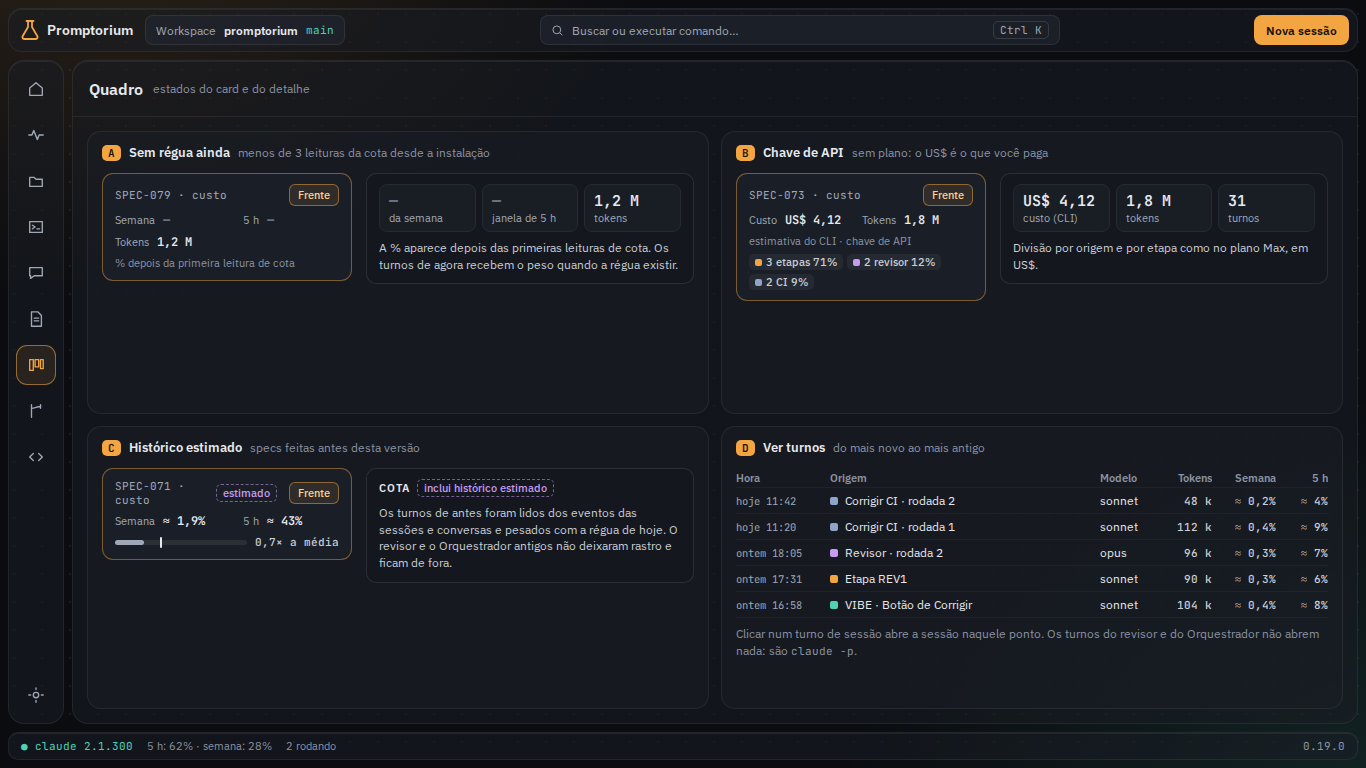
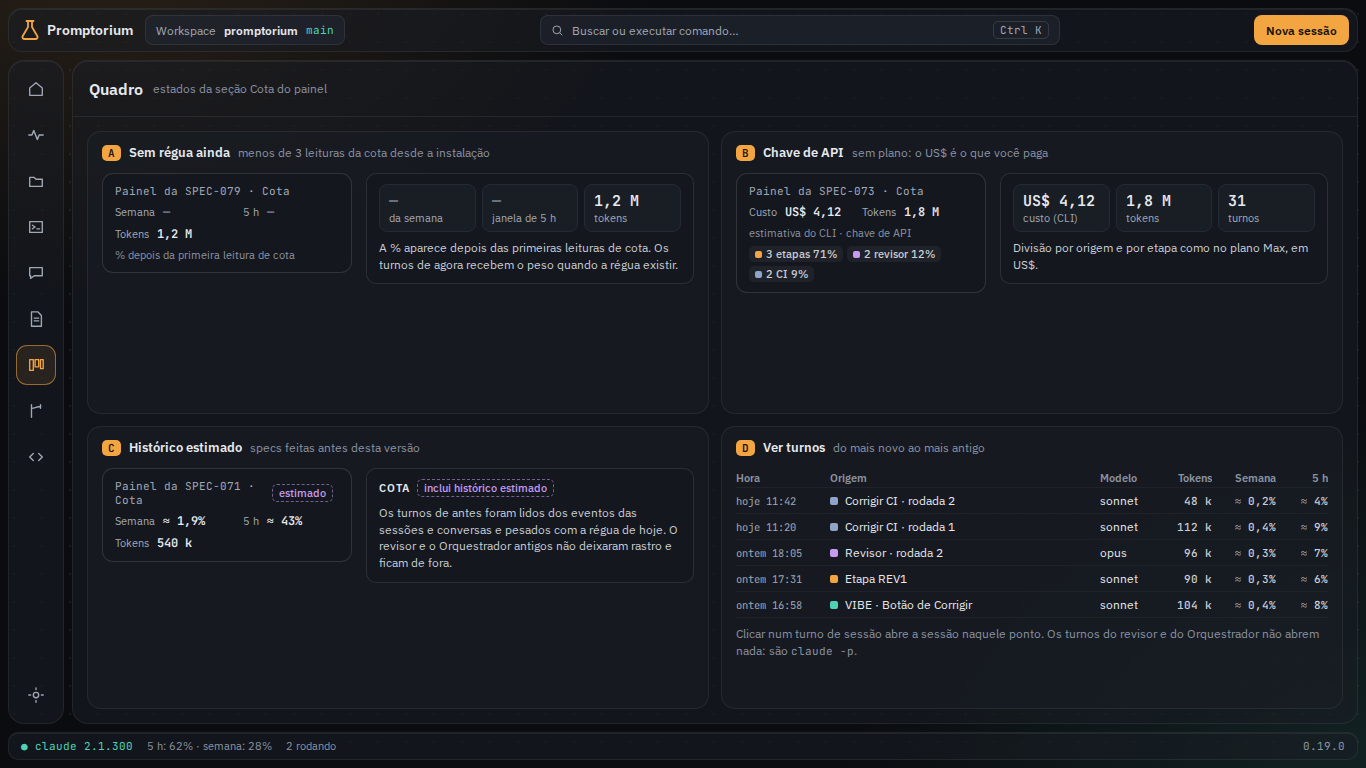
docs(spec-081): custo só no painel da spec; o card não muda

diff --git a/docs/specs/SPEC-081-custo-por-spec.md b/docs/specs/SPEC-081-custo-por-spec.md
@@ -17,14 +17,14 @@ E o número que existe está na unidade errada. O usuário está no plano Max: n
 Esta spec:
 - passa a **registrar o consumo de cada turno** de tudo o que trabalha numa spec (etapas, revisor automático, Corrigir CI, VIBE, refinamento, classificador e decisões do Orquestrador), com a spec e a origem;
 - converte o consumo em **peso na janela de 5 h e na semana**, em % e em tokens, a partir das leituras de cota que o app já recebe (`rate_limit_event` e `/usage`), como a Atividades (SPEC-076 R7) faz com as sessões vivas;
-- mostra o custo **no verso do card do Quadro** (a pessoa vira o card para ver; a frente continua como hoje) e **no detalhe da spec**, com a divisão por origem e por etapa;
+- mostra o custo **no painel da spec**, que abre com o clique que já existe no card do Quadro, com a divisão por origem e por etapa. O card não muda;
 - cria um **ranking das specs que mais custaram**, em Projeto → Métricas.
 
 Mockup: [canvas do Claude Design](https://claude.ai/artifact/8jY976rNGUu6w2TNxAoGTr). Capturas em `docs/mockups/spec-081/`:
 
 | Captura | O que mostra | Requisitos |
 |---|---|---|
-| `1-quadro.png` | O Quadro com dois cards virados (o verso com o custo, um deles rodando), o botão de virar no hover e a virada quadro a quadro | R6–R6c, R7, R14 |
+| `1-quadro.png` | O Quadro com o card como é hoje e, ao clicar numa spec rodando, o painel com a seção Cota e o peso de agora | R6, R7, R8 |
 | `2-detalhe.png` | O painel da spec com a seção Cota: totais, divisão por origem, por etapa e a lista de turnos | R8, R9 |
 | `3-ranking.png` | Projeto → Métricas com "Specs que mais custaram", o período e a troca de unidade | R10, R11 |
 | `4-estados.png` | Sem leitura de cota ainda, chave de API (US$), histórico estimado e a lista de turnos | R3, R5, R8, R12 |
@@ -44,22 +44,15 @@ Mockup: [canvas do Claude Design](https://claude.ai/artifact/8jY976rNGUu6w2TNxAo
   - **Verificação**: a verificação da spec (`spec_verifier.dart`) e as respostas às perguntas (`spec_answers.dart`);
   - **Outros**: o que roda numa spec e não está acima (protótipo de telas, `spec_design.dart`).
 
-  Turnos sem spec (Prompt livre, sessões soltas, Projeto, mini planejamento da Nova spec) também são gravados, com spec nula, para a soma do workspace e para a régua do R3, mas não aparecem no verso do card nem no ranking.
+  Turnos sem spec (Prompt livre, sessões soltas, Projeto, mini planejamento da Nova spec) também são gravados, com spec nula, para a soma do workspace e para a régua do R3, mas não aparecem no painel da spec nem no ranking.
 - R3 · **A régua: quanto da cota vale um turno.** A cota do plano é medida pelo custo das chamadas, não pela contagem de tokens, então o custo estimado do CLI serve de peso e nunca aparece como preço. O app aprende quanto cada janela sobe por unidade de custo: a cada leitura nova da cota (`rate_limit_event` ou `/usage`) na mesma janela (mesmo `resetsAt`), ele divide a subida do uso pela soma do custo dos turnos gravados entre as duas leituras. A régua de cada janela é a **mediana das últimas 20 divisões** válidas (subida > 0 e custo > 0), guardada em `app_settings` (`quota.ruler.five_hour`, `quota.ruler.seven_day`). A mediana tira do cálculo os intervalos em que a pessoa usou o Claude fora do app (o terminal, o claude.ai), que sobem a cota sem turno gravado. Sem régua ainda (menos de 3 divisões), o app mostra só os tokens e "% depois da primeira leitura de cota".
 - R4 · **O peso fica no lançamento.** Ao gravar, o lançamento recebe o peso na janela de 5 h e na semana pela régua do momento (`custo × régua`), e esse número não muda depois, mesmo que a régua mude. Um lançamento gravado sem régua recebe o peso quando a primeira régua existir.
 - R5 · **O histórico de antes.** As sessões e conversas gravadas antes desta spec têm só o total (`costUsd`, `tokensIn`, `tokensOut`). Na primeira abertura depois da migração, o app lê os eventos `result` de `session_events` e `conversation_events` e cria os lançamentos com a hora de cada turno, em segundo plano e uma vez só. Os `claude -p` antigos (revisor, Orquestrador) não deixaram rastro e ficam de fora. Esses lançamentos vêm marcados como **estimados** (régua de hoje, não a do dia) e o detalhe diz "inclui histórico estimado".
 
 ### Onde aparece
 
-- R6 · **O custo fica no verso do card.** A frente do card do Quadro continua como é hoje, sem nenhum número de custo: o "US$ 4,12" que a frente mostra hoje sai dela e vai para o verso. Para ver o custo, a pessoa **vira o card**:
-  - **o gatilho** é um botão com o ícone de **medidor de cota** (um mostrador com ponteiro, como o `Icons.speed` do Material) no canto inferior direito da frente, que aparece com o mouse sobre o card ou com o foco dentro dele, com a dica "Ver o custo · V"; com o foco no card, a tecla **V** também vira. O botão usa `AppPressable.claim`, como os selos do card (gate, CI, issue), para o toque nele não virar clique no card nem começar um arrasto (P2);
-  - **a animação** é um giro 3D no eixo vertical (`Transform` com perspectiva, `rotateY` de 0 a 180°), de 360 ms com a curva do app; na metade do giro a frente dá lugar ao verso. No verso, o botão "Frente" (no mesmo canto, com texto), V ou Esc voltam à frente pelo mesmo giro;
-  - **a altura:** o card virado tem a altura do maior dos dois lados; se o verso precisa de mais, o card cresce junto com o giro e volta à altura da frente ao desvirar;
-  - **um por vez:** virar outro card desvira o anterior; arrastar um card virado desvira ele antes; trocar de workspace ou de tela desvira todos. O estado não é salvo (P9).
-- R6a · **O verso.** Mostra, de cima para baixo: "SPEC-073 · custo" e o botão "Frente"; **Semana** "≈ 6,2%" e **Janela de 5 h** "≈ 1,4 jan."; **Tokens** "1,8 M" e "+ 41 M do cache"; **as sessões somadas por tipo**, em etiquetas com a cor da origem, a quantidade e a parte de cada uma ("3 etapas 71%", "2 revisor 12%", "2 CI 9%", "1 VIBE 6%", "1 refino 2%"); e **a comparação com a média**: uma barra com o peso da spec e um traço na média, "2,1× a média" e, quando cabe, "média das specs feitas em 30 dias: ≈ 2,9% sem." (P8). Com menos de 3 specs na média, a linha diz "sem média ainda". Acima de 1,5× a média, a barra e o número ficam em âmbar. Clicar no verso (fora do botão) abre o detalhe da spec (R8), como o clique na frente. Uma spec sem consumo mostra no verso "Nada gasto ainda".
-- R6b · **O que não muda.** O clique no card abre o detalhe como hoje; o arrasto move o card como hoje; o clique no robô (SPEC-076) abre a Atividades como hoje; o menu do card continua no mesmo lugar. O robô e o balão de pedido ficam só na frente.
-- R6c · **Reduzir movimento.** Com "reduzir movimento" do sistema (`MediaQuery.disableAnimations`), a troca não gira: frente e verso trocam por um crossfade de 150 ms, e a altura muda sem animar.
-- R7 · **Ao vivo.** Enquanto a spec tem uma sessão viva, o verso mostra também o peso dela na janela de 5 h atual, o mesmo da Atividades (SPEC-076 R7): "agora ≈ 9% · 5 h, rodando", em teal. Os números do verso se atualizam a cada turno sem desvirar o card.
+- R6 · **O card não muda.** O card do Quadro fica como é hoje: não ganha selo, ícone, botão nem número de custo, e nenhum gatilho novo. O custo aparece **só quando a pessoa clica no card**, com o clique (a seleção) que já existe hoje e que abre o painel da spec (R8). O arrasto e o clique no robô (SPEC-076) continuam como estão. O texto em US$ que o card já mostra hoje fica como está nesta spec (P2).
+- R7 · **Ao vivo.** Com a spec rodando, a seção Cota do painel mostra também o peso da sessão viva na janela de 5 h atual, o mesmo da Atividades (SPEC-076 R7): "agora ≈ 9% · 5 h, rodando", em teal, e os números da seção se atualizam a cada turno.
 - R8 · **No detalhe da spec.** O painel da spec no Quadro (`spec_steps_panel.dart`) ganha a seção **Cota**, abaixo das etapas:
   - os totais: "≈ 6% da semana", "≈ 1,4 janela de 5 h" e "1,8 M tokens" (com "+ 41 M lidos do cache" embaixo);
   - a divisão **por origem**, uma barra empilhada e a lista com o peso e a % de cada uma (Etapas, Revisor, Corrigir CI, VIBE, Refinamento, Orquestrador, Verificação, Outros);
@@ -69,13 +62,13 @@ Mockup: [canvas do Claude Design](https://claude.ai/artifact/8jY976rNGUu6w2TNxAo
   O "US$" ao lado de "3/3 etapas" sai. Na tela Specs, o painel de rastro da etapa (`step_trace_panel.dart`) troca o "Custo" em US$ pelo peso da sessão.
 - R9 · **A janela de 5 h de hoje.** No detalhe, quando a spec gastou na janela atual, aparece "nesta janela: ≈ 23% (renova às 14:00)", para a pessoa saber se ainda dá para mandar outra rodada antes de renovar.
 - R10 · **Ranking.** Projeto → Métricas ganha, no topo, **"Specs que mais custaram"**: as 10 specs do workspace com mais peso no período, com o código, o título, a coluna, uma barra pelo peso, a % da semana, a janela de 5 h, os tokens e a origem que mais pesou. O período é **7 dias** (padrão), **30 dias** ou **Tudo**, pelos lançamentos dentro do período. Clicar numa linha abre a spec no Quadro, com o painel aberto. Um "Todos os workspaces" junta as specs dos workspaces abertos, com o nome do workspace na linha.
-- R11 · **A tabela de métricas.** A coluna "Custo" (US$) de Projeto → Métricas vira "Cota (semana)", com o mesmo número do verso do card, e o resumo do topo ("12 spec(s) · …") troca o US$ pelo peso somado.
-- R12 · **Chave de API.** Sem plano (`subscriptionType` nulo, chave de API), não há cota: o card, o detalhe e o ranking mostram o US$, que nesse caso é o que a pessoa paga, com "estimativa do CLI" no verso do card. O detalhe mantém a divisão por origem e por etapa.
-- R13 · **Formato.** Pesos com "≈" e uma casa decimal abaixo de 10% ("≈ 0,4%"), sem casa acima ("≈ 23%"); abaixo de 0,1%, "< 0,1%". Janelas acima de 100% viram "1,4 janela de 5 h". Tokens em "k" e "M" com vírgula decimal ("812 k", "1,8 M"). Estados nunca só pela cor: o âmbar da comparação vem com o "2,1×".
+- R11 · **A tabela de métricas.** A coluna "Custo" (US$) de Projeto → Métricas vira "Cota (semana)", com o mesmo número do painel da spec, e o resumo do topo ("12 spec(s) · …") troca o US$ pelo peso somado.
+- R12 · **Chave de API.** Sem plano (`subscriptionType` nulo, chave de API), não há cota: o painel da spec e o ranking mostram o US$, que nesse caso é o que a pessoa paga, com "estimativa do CLI" ao lado. O detalhe mantém a divisão por origem e por etapa.
+- R13 · **Formato.** Pesos com "≈" e uma casa decimal abaixo de 10% ("≈ 0,4%"), sem casa acima ("≈ 23%"); abaixo de 0,1%, "< 0,1%". Janelas acima de 100% viram "1,4 janela de 5 h". Tokens em "k" e "M" com vírgula decimal ("812 k", "1,8 M"). Estados nunca só pela cor: o "agora" em teal vem com o texto "rodando".
 
 ### Acessibilidade
 
-- R14 · O botão de virar tem o rótulo "Ver o custo da SPEC-073" (no verso, "Mostrar a frente do card") e entra na ordem do Tab do card. Ao virar, o leitor de tela anuncia "Custo da SPEC-073: cerca de 6,2% da semana, 1,4 janela de 5 horas, 2,1 vezes a média"; a barra da comparação é decorativa. A barra empilhada do detalhe tem a lista ao lado com os mesmos números, e o ranking é uma tabela navegável pelo teclado (↑/↓, Enter abre).
+- R14 · A seção Cota é anunciada pelo leitor de tela com os totais ("Cota da spec: cerca de 6,2% da semana, 1,4 janela de 5 horas, 1,8 milhão de tokens"). A barra empilhada do detalhe tem a lista ao lado com os mesmos números, e o ranking é uma tabela navegável pelo teclado (↑/↓, Enter abre).
 
 ## Fora do escopo
 
@@ -90,20 +83,17 @@ Mockup: [canvas do Claude Design](https://claude.ai/artifact/8jY976rNGUu6w2TNxAo
 ## Decisões em aberto
 
 - P1 · **Como transformar consumo em % da cota.** (a) Repartir a subida da cota entre os turnos do app no intervalo; (b) uma régua aprendida (mediana de subida ÷ custo, R3); (c) uma tabela fixa por plano. **Recomendação: (b).** A (a) joga na spec o que a pessoa gastou no terminal ao mesmo tempo. A (c) depende de números que a Anthropic não publica e que mudam. A régua se ajusta sozinha e a mediana descarta os intervalos contaminados.
-- P2 · **Gatilho para virar o card.** O clique no card abre o detalhe, o arrasto move, o robô leva à Atividades e o menu "⋯" abre as ações. Clique duplo atrasaria o clique simples (o app teria de esperar para saber se vem o segundo); pressionar e segurar briga com o arrasto; passar o mouse viraria cards sem querer ao percorrer o Quadro; o botão direito não é descoberto por ninguém. **Recomendação: um botão com o ícone de medidor de cota no canto inferior direito**, que aparece no hover e no foco, mais a tecla **V** com o card em foco. É explícito, não tem atraso, segue o padrão dos selos clicáveis do card (`AppPressable.claim`) e funciona pelo teclado.
-- P2b · **O ícone do gatilho.** Uma seta circular lê como "refazer" ou "atualizar", e no card de uma spec isso sugere rodar de novo. Um ícone de virar (`flip`, `flip_to_back`) diz que o card vira, mas não o que há atrás. Um selo com o peso ("4%") diz o que há atrás, mas põe o custo na frente, que deve ficar como hoje. **Recomendação: o ícone de medidor de cota** (o mostrador do `Icons.speed`), o mesmo desenho da cota no rodapé e na Atividades: diz que atrás está o gasto da cota sem mostrar número na frente. No verso, o caminho de volta é um botão com texto, "Frente", que não tem como ser confundido.
-- P2a · **O que o verso destaca.** % da semana, janela de 5 h ou tokens. **Recomendação: % da semana primeiro**, com a janela de 5 h ao lado e os tokens embaixo. Uma spec atravessa várias janelas de 5 h, e "140% da janela" confunde; a semana acumula, como a spec.
+- P2 · **O US$ que o card já mostra hoje.** O card mostra hoje, ao lado dos selos, o custo em US$ das sessões das etapas. O pedido é deixar o card exatamente como é. **Recomendação:** manter nesta spec, como pedido, e decidir à parte se ele sai: no plano Max ele é a unidade errada e conta só as etapas, então fica diferente do número do painel.
+- P2a · **O que a seção Cota destaca.** % da semana, janela de 5 h ou tokens. **Recomendação: % da semana primeiro**, com a janela de 5 h ao lado e os tokens no terceiro quadro. Uma spec atravessa várias janelas de 5 h, e "140% da janela" confunde; a semana acumula, como a spec.
 - P3 · **Tokens: com ou sem cache.** A leitura de cache é a maior parte dos tokens (40 M num dia) e pesa pouco na cota. **Recomendação:** o número principal é entrada nova + escrita de cache + saída; a leitura de cache aparece à parte ("+ 41 M lidos do cache").
 - P4 · **Onde fica o ranking.** Em Projeto → Métricas, na Atividades ou numa tela nova. **Recomendação: Projeto → Métricas**, que já é a tela de "o que cada spec custou" (F14). A Atividades é do que está vivo agora.
 - P5 · **Histórico de antes (R5).** Reconstruir dos eventos, mostrar só a partir de agora ou somar o total da sessão sem divisão. **Recomendação: reconstruir dos eventos**, marcado como estimado. Sem isso, o ranking começa vazio e as specs já feitas, que são as que a pessoa quer comparar, ficam de fora.
 - P6 · **Corrigir CI na sessão da spec.** O Corrigir CI manda a mensagem para a sessão que já existe. **Recomendação:** marcar a origem no turno (o `CiFixer` avisa o `SessionManager` que o próximo turno é dele), e não abrir uma sessão nova só para separar o custo.
-- P8 · **Base da média do verso.** Todas as specs, só as feitas, ou as feitas nos últimos 30 dias. **Recomendação: as feitas em 30 dias.** Uma spec em andamento ainda vai gastar e puxaria a média para baixo; specs antigas foram feitas com outros modelos.
-- P9 · **Vários cards virados.** **Recomendação: um por vez.** Virar é para olhar um custo; vários virados escondem o Quadro, e comparar specs é o papel do ranking.
 - P7 · **Ranking por padrão.** Só o workspace ativo ou todos. **Recomendação:** o workspace ativo, com "Todos os workspaces" ao lado, como as Métricas já são por workspace.
 
 ## Design
 
-Canvas para validar: [Custo por spec](https://claude.ai/artifact/8jY976rNGUu6w2TNxAoGTr). Quatro artboards: o Quadro com o card virado, o detalhe da spec, o ranking e os estados.
+Canvas para validar: [Custo por spec](https://claude.ai/artifact/8jY976rNGUu6w2TNxAoGTr). Quatro artboards: o Quadro com o card como hoje e o painel aberto, o detalhe da spec, o ranking e os estados.
 
 ### O que já existe
 
@@ -114,7 +104,7 @@ Canvas para validar: [Custo por spec](https://claude.ai/artifact/8jY976rNGUu6w2T
 - `lib/features/prompt/conversation_manager.dart`: o mesmo para as conversas (VIBE, refinamento, Prompt).
 - `lib/core/claude/readonly_run.dart`: `runReadOnlyClaude`, o `claude -p` do revisor, do Orquestrador, da verificação e do protótipo. Hoje o custo dele se perde.
 - `lib/features/review/ci_fixer.dart`: envia a mensagem do Corrigir CI para a sessão da spec.
-- `lib/features/board/board_screen.dart`: `SpecCardData.cost` (soma em US$ das sessões da spec), o texto do card e os selos com `AppPressable.claim`. `widgets/spec_steps_panel.dart`: o "3/3 etapas · US$".
+- `lib/features/board/board_screen.dart`: `SpecCardData.cost` (soma em US$ das sessões da spec) e o clique no card que abre o painel; o card não muda. `widgets/spec_steps_panel.dart`: o "3/3 etapas · US$".
 - `lib/features/project/spec_metrics.dart` e `widgets/spec_metrics_view.dart` (F14): as métricas por spec, com a coluna Custo.
 - `lib/features/project/widgets/usage_block.dart` e `provider_availability.dart`: o plano (`subscriptionType`) para o R12.
 
@@ -126,7 +116,7 @@ Canvas para validar: [Custo por spec](https://claude.ai/artifact/8jY976rNGUu6w2T
 - **`lib/features/cost/usage_ledger.dart`**: `UsageLedger.record(...)`, chamado pelo `SessionManager`, pelo `ConversationManager` e pelo `runReadOnlyClaude` (com `specId` e `source` novos nos parâmetros) (R1, R2).
 - **`lib/features/cost/spec_cost.dart`**: `SpecCost` (totais, por origem, por etapa, nesta janela) e `specCostOf(entries)` (função pura); `specCostProvider(specId)` e `specCostRankingProvider(workspace, período)` (R6–R11).
 - **`lib/features/cost/usage_backfill.dart`**: a reconstrução do R5, uma vez, marcada em `app_settings`.
-- **`lib/features/cost/widgets/`**: `SpecCardFlip` (o giro, o crossfade e o "um por vez"), `SpecCostBack` (o verso), `SpecCostSection` (detalhe), `SpecCostRanking` (Métricas); `formatQuota` e `formatTokens` (R13).
+- **`lib/features/cost/widgets/`**: `SpecCostSection` (detalhe), `SpecCostRanking` (Métricas); `formatQuota` e `formatTokens` (R13).
 
 ### Arquivos tocados
 
@@ -150,7 +140,7 @@ Sim. Uma tabela nova, `usage_entries`, na **v29** (provisória: a atual é a v28
 - `UsageLedger`: o turno é a diferença do acumulado; turno sem consumo não grava; origem e spec de cada caminho (etapa, `REVn`, revisor, CI, VIBE, refinamento pelo código, Orquestrador).
 - `specCostOf`: totais, por origem, por etapa, nesta janela; lançamentos sem peso ficam só com tokens.
 - Backfill: lê os `result` dos eventos, uma vez só, marca como estimado.
-- Widgets: a frente não mostra custo; o botão e o V viram e desviram; o clique no card abre o detalhe e não vira; o robô continua indo à Atividades; arrastar desvira; virar outro desvira o anterior; com "reduzir movimento" é crossfade; o verso tem semana, 5 h, tokens, sessões por tipo, a média e o "agora"; o detalhe mostra as três divisões; o ranking ordena, filtra pelo período e abre a spec; chave de API mostra US$.
+- Widgets: o card do Quadro não muda (sem selo, ícone ou botão novos); clicar no card abre o painel com a seção Cota; com sessão viva aparece o "agora"; o detalhe mostra as três divisões; o ranking ordena, filtra pelo período e abre a spec; chave de API mostra US$.
 
 ## Critérios de aceite
 
@@ -158,13 +148,11 @@ Sim. Uma tabela nova, `usage_entries`, na **v29** (provisória: a atual é a v28
 - [ ] A régua sai da mediana das divisões na mesma janela e ignora a janela que renovou [R3] verificar: flutter test test/features/cost/quota_ruler_test.dart
 - [ ] O peso fica no lançamento e um lançamento sem régua recebe o peso depois [R4] verificar: flutter test test/features/cost/usage_ledger_test.dart
 - [ ] O histórico de antes é reconstruído dos eventos uma vez só, marcado como estimado [R5] verificar: flutter test test/features/cost/usage_backfill_test.dart
-- [ ] A frente do card não mostra custo; o botão de medidor e a tecla V viram o card com o giro 3D e desviram, um card por vez [R6, R14] verificar: flutter test test/features/cost/spec_card_flip_test.dart
-- [ ] O clique no card, o arrasto e o clique no robô fazem o mesmo que hoje, e arrastar desvira o card [R6b] verificar: flutter test test/features/cost/spec_card_flip_test.dart
-- [ ] Com "reduzir movimento", a troca é um crossfade sem giro [R6c] verificar: flutter test test/features/cost/spec_card_flip_test.dart
-- [ ] O verso mostra semana, 5 h, tokens, as sessões por tipo, a comparação com a média e "agora" com sessão viva [R6a, R7, R13] verificar: flutter test test/features/cost/spec_cost_back_test.dart
+- [ ] O card do Quadro fica como hoje, e o clique que já existe nele abre o painel com a seção Cota [R6, R8] verificar: flutter test test/features/cost/spec_cost_section_test.dart
+- [ ] Com a spec rodando, a seção mostra "agora" com o peso na janela de 5 h atual [R7, R13, R14] verificar: flutter test test/features/cost/spec_cost_section_test.dart
 - [ ] O detalhe mostra os totais, a divisão por origem e por etapa, "nesta janela" e os turnos [R8, R9] verificar: flutter test test/features/cost/spec_cost_section_test.dart
 - [ ] O ranking lista as 10 que mais custaram no período, junta os workspaces e abre a spec [R10, R11] verificar: flutter test test/features/cost/spec_cost_ranking_test.dart
-- [ ] Com chave de API, card, detalhe e ranking mostram US$ com "estimativa do CLI" [R12] verificar: flutter test test/features/cost/spec_cost_back_test.dart
+- [ ] Com chave de API, card, detalhe e ranking mostram US$ com "estimativa do CLI" [R12] verificar: flutter test test/features/cost/spec_cost_section_test.dart
 - [ ] A migração cria `usage_entries` sem tocar nas outras tabelas [R1] verificar: flutter test test/data/db/migration_test.dart
-- [ ] No app, uma spec rodada de ponta a ponta (etapas, revisor, Corrigir CI e uma VIBE) mostra no verso do card e no detalhe a soma de todas as origens, e o ranking a coloca na posição certa [R1–R10] verificar: manual (app isolado com `XDG_DATA_HOME`, prints em `docs/mockups/spec-081/app/`)
+- [ ] No app, uma spec rodada de ponta a ponta (etapas, revisor, Corrigir CI e uma VIBE) mostra no painel da spec a soma de todas as origens, e o ranking a coloca na posição certa [R1–R10] verificar: manual (app isolado com `XDG_DATA_HOME`, prints em `docs/mockups/spec-081/app/`)
 - [ ] O projeto compila e a análise estática passa [R1–R14] verificar: flutter analyze
